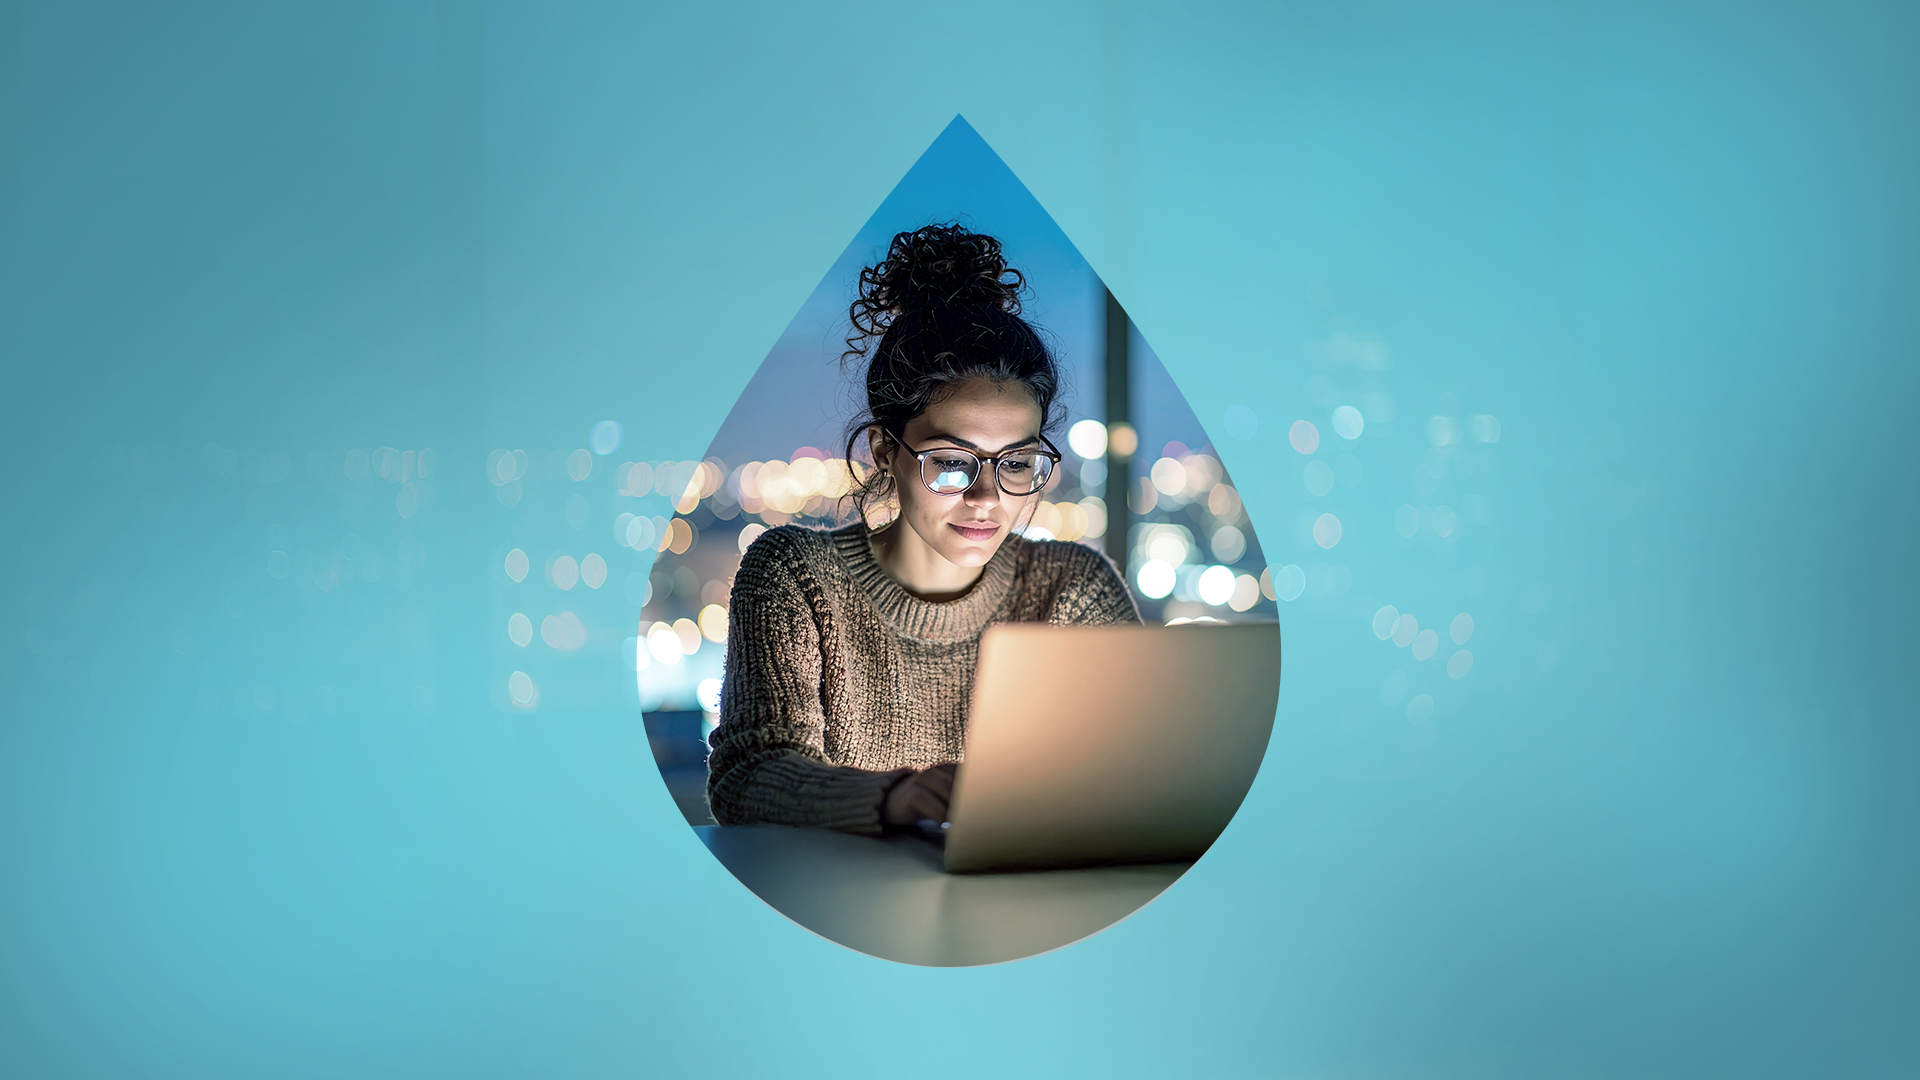
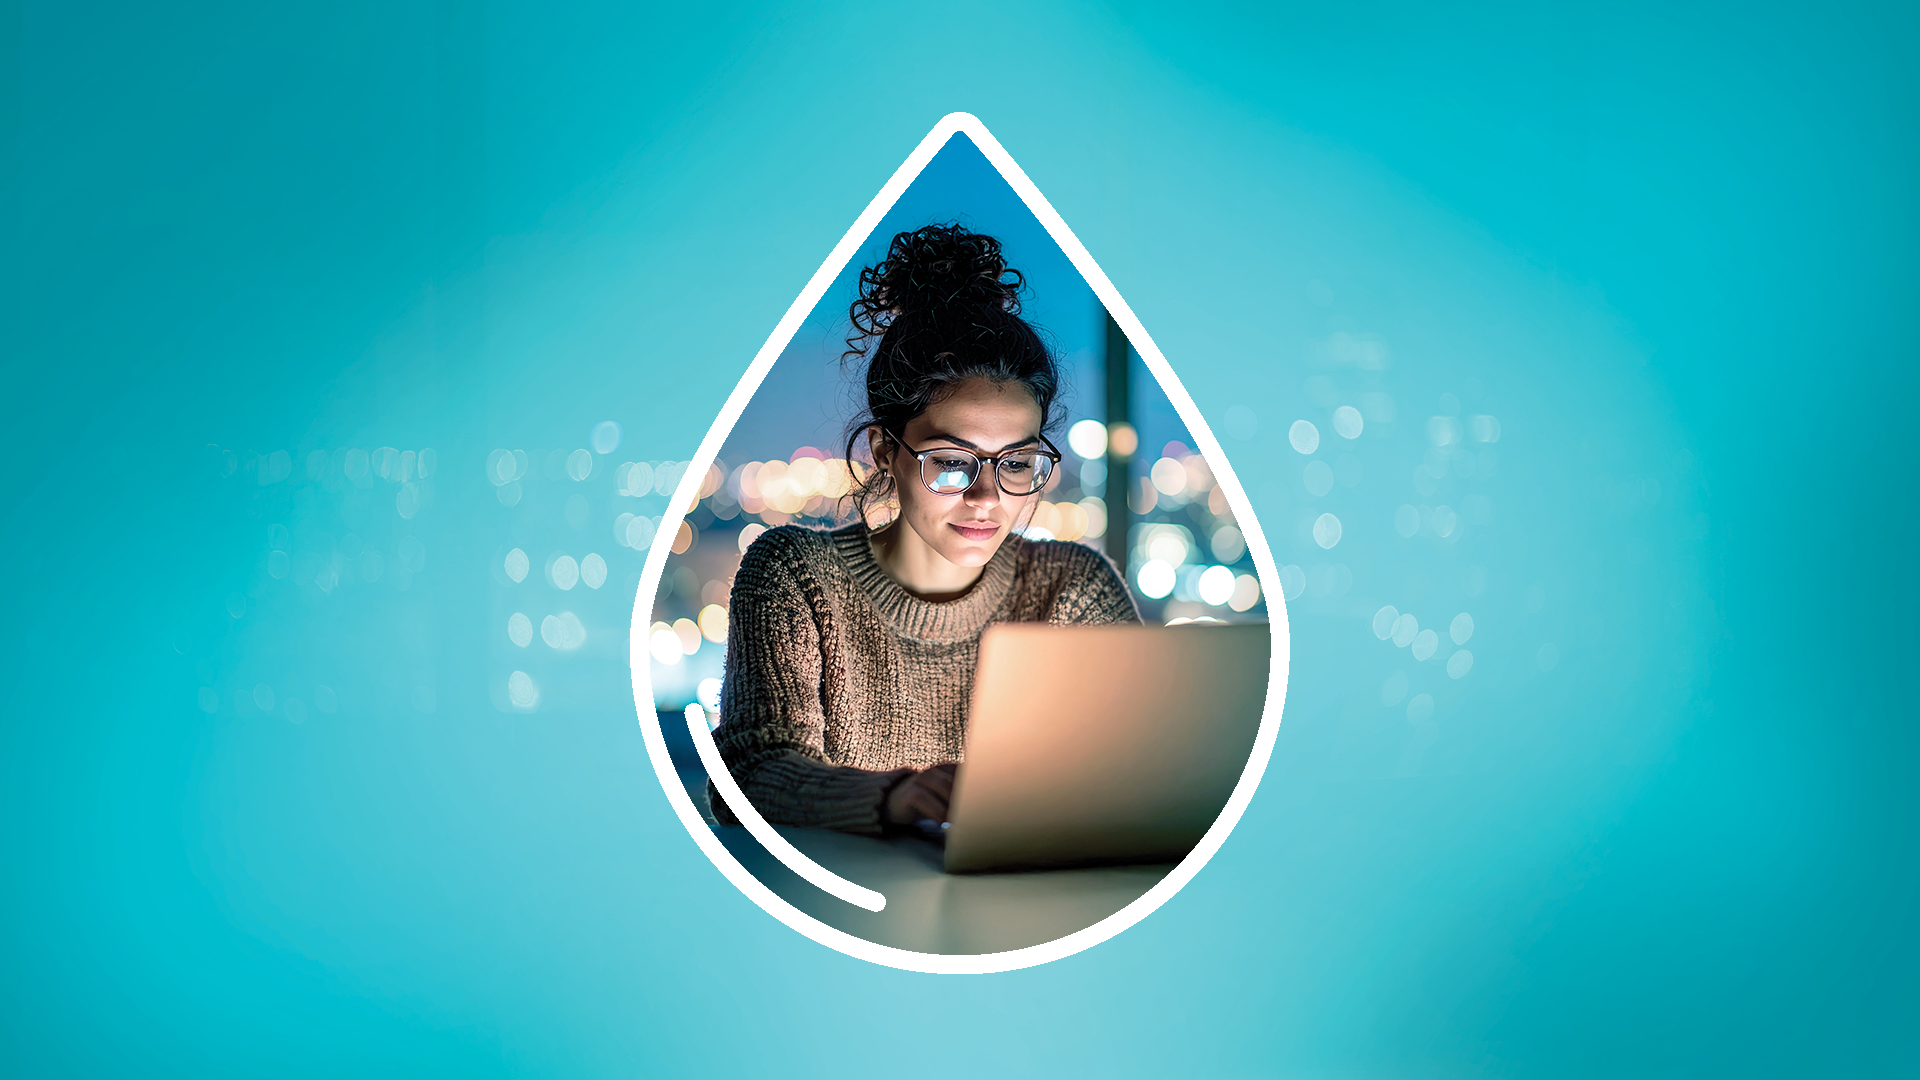
ajustes nova versão

diff --git a/css/style.css b/css/style.css
@@ -377,46 +377,46 @@ p:last-child { margin-bottom: 0; }
 }
 
 /* Tamanhos individuais conforme o KV (Vermelhidão > Ardor > Coceira = Areia > Secura) */
-.hero__badge--vermelhidao { width: 150px; }
-.hero__badge--ardor       { width: 120px; }
-.hero__badge--coceira     { width: 105px; }
-.hero__badge--areia       { width: 105px; }
-.hero__badge--secura      { width: 95px;  }
+.hero__badge--vermelhidao { width: 270px; }
+.hero__badge--ardor       { width: 200px; }
+.hero__badge--coceira     { width: 170px; }
+.hero__badge--areia       { width: 170px; }
+.hero__badge--secura      { width: 170px;  }
 
 .hero__badge--ardor {
   top: 13%;
-  left: 38%;
+  left: 34%;
   animation: badge-pop 0.65s cubic-bezier(0.34,1.56,0.64,1) 0.9s forwards;
 }
 .hero__badge--ardor img { animation: badge-float-a 3.4s ease-in-out infinite; }
 
 .hero__badge--secura {
   bottom: 24%;
-  left: 28%;
+  left: 27%;
   animation: badge-pop 0.65s cubic-bezier(0.34,1.56,0.64,1) 1.1s forwards;
 }
 .hero__badge--secura img { animation: badge-float-b 3.8s ease-in-out infinite; }
 
 .hero__badge--vermelhidao {
   top: 36%;
-  left: 61%;
+  left: 58%;
   animation: badge-pop 0.65s cubic-bezier(0.34,1.56,0.64,1) 1.3s forwards;
 }
 .hero__badge--vermelhidao img { animation: badge-float-c 4.2s ease-in-out infinite; }
 
 .hero__badge--coceira {
-  top: 10%;
-  left: 60%;
+  top: 25%;
+  left: 68%;
   animation: badge-pop 0.65s cubic-bezier(0.34,1.56,0.64,1) 1.0s forwards;
 }
 .hero__badge--coceira img { animation: badge-float-d 3.6s ease-in-out infinite; }
 
 .hero__badge--areia {
-  bottom: 22%;
-  left: 59%;
+  bottom: 24%;
+  left: 66%;
   animation: badge-pop 0.65s cubic-bezier(0.34,1.56,0.64,1) 1.2s forwards;
 }
-.hero__badge--areia img { animation: badge-float-e 4.0s ease-in-out infinite; }
+.hero__badge--areia img { animation: badge-float-e 4.5s ease-in-out infinite; }
 
 /*
   Layout: ocupa toda a altura do hero.
@@ -471,32 +471,11 @@ p:last-child { margin-bottom: 0; }
   position: absolute;
   bottom: 100px;
   left: var(--container-pad);
-  display: inline-flex;
-  align-items: center;
-  gap: 10px;
 }
-.hero__julho-icon {
-  font-size: 28px;
-  color: rgba(255,255,255,0.90);
-  flex-shrink: 0;
-}
-.hero__julho-text {
-  display: flex;
-  flex-direction: column;
-  line-height: 1.3;
-}
-.hero__julho-title {
-  font-family: var(--font-heading);
-  font-size: 14px;
-  font-weight: 700;
-  letter-spacing: 3px;
-  text-transform: uppercase;
-  color: rgba(255,255,255,0.95);
-}
-.hero__julho-sub {
-  font-family: var(--font-body);
-  font-size: 11px;
-  color: rgba(255,255,255,0.65);
+.hero__julho img {
+  width: 180px;
+  height: auto;
+  display: block;
 }
 
 /* Brand logos: canto inferior-direito do layout */
@@ -509,7 +488,8 @@ p:last-child { margin-bottom: 0; }
 .hero__brand img {
   filter: brightness(0) invert(1);
   opacity: 0.90;
-  max-width: 200px;
+  width: 220px;
+  height: auto;
   display: block;
 }
 
@@ -1139,7 +1119,7 @@ p:last-child { margin-bottom: 0; }
 
 #footer {
   background: var(--teal-900);
-  padding-block: 36px;
+  padding-block: 38px;
 }
 
 .footer-logo {
@@ -1148,7 +1128,7 @@ p:last-child { margin-bottom: 0; }
 }
 
 .footer-logo img {
-  height: 36px;
+  height: 38px;
   width: auto;
   margin-inline: auto;
   filter: brightness(0) invert(1);

diff --git a/index.html b/index.html
@@ -38,7 +38,7 @@
     <!-- Layer 1 (z-index:1): gota full-bleed + badges flutuantes -->
     <div class="hero__visual">
       <div class="hero__drop-wrap">
-        <img src="assets/img/hero-gota.png" class="hero__drop" alt="Síndrome do Olho Seco">
+        <img src="assets/img/hero-gota3.png" class="hero__drop" alt="Síndrome do Olho Seco">
         <div class="hero__badge hero__badge--ardor">
           <img src="assets/img/badge-ardor.png" alt="Ardor">
         </div>
@@ -71,11 +71,7 @@
 
       <!-- Canto inferior-esquerdo: Julho Turquesa -->
       <div class="hero__julho">
-        <i class="fas fa-ribbon hero__julho-icon"></i>
-        <div class="hero__julho-text">
-          <span class="hero__julho-title">Julho Turquesa</span>
-          <span class="hero__julho-sub">Mês de conscientização do olho seco</span>
-        </div>
+        <img src="assets/img/hero-julho.png" alt="Julho Turquesa — Mês de conscientização do olho seco">
       </div>
 
       <!-- Canto inferior-direito: logos Genom + Grupo União Química -->
